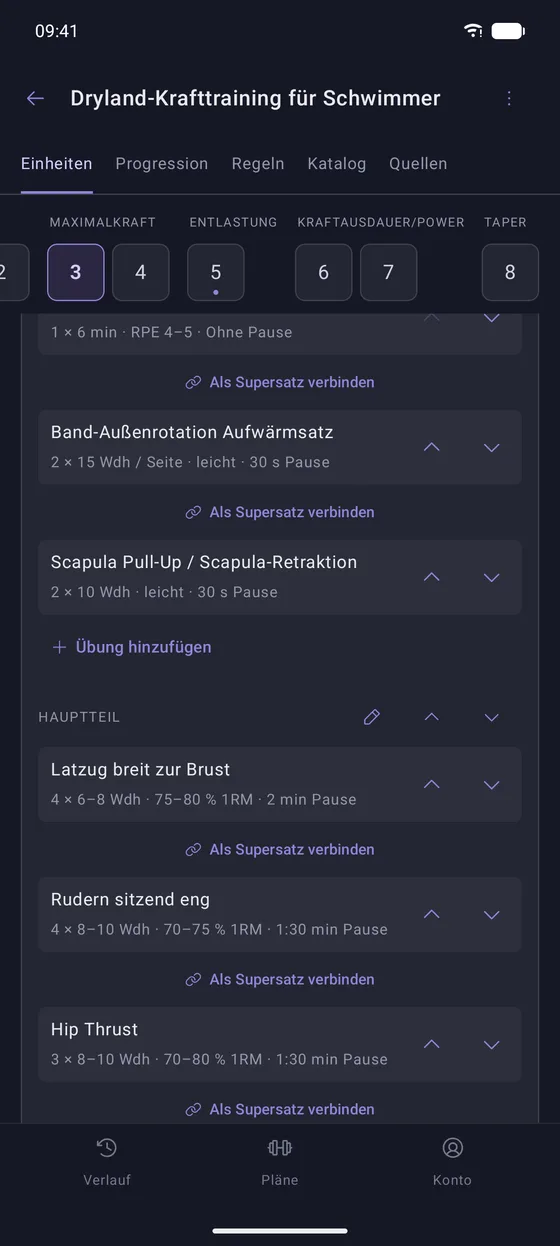
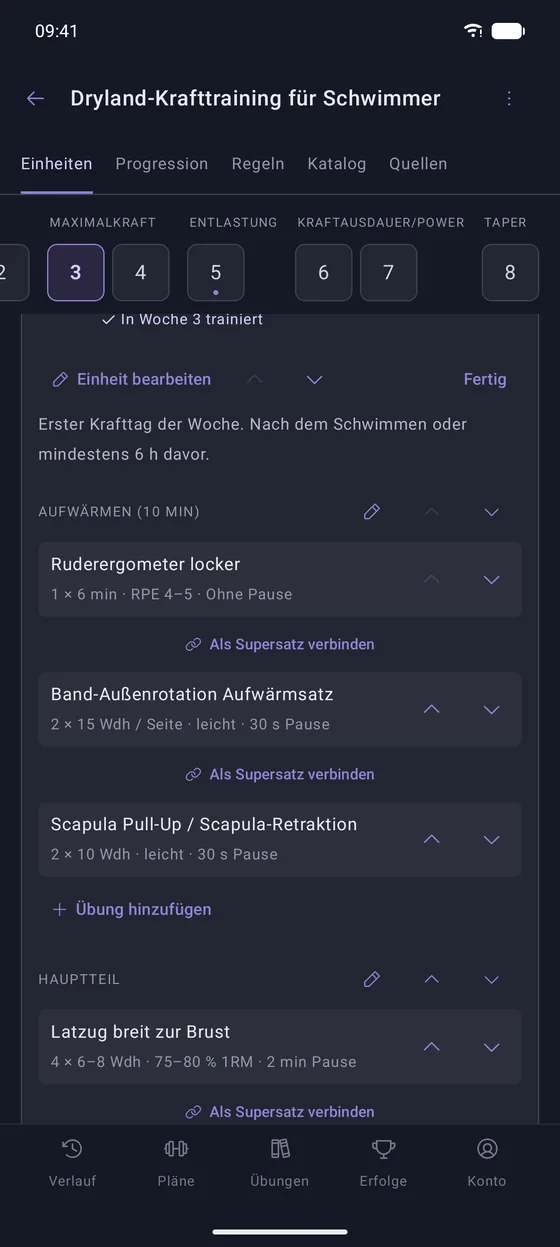
Abschlusskarte, Erfolge und Zeit seit dem letzten Satz; Screenshots mit fünf Reitern (App 43)

diff --git a/anleitungen.html b/anleitungen.html
@@ -19,7 +19,7 @@
 </head>
 <body>
 <h1>Trainingsarten mit Helpanion</h1>
-<p>Stand: 13. Oktober 2026 (App-Version 42) · <a href="#en">English version below</a> · <a href="begriffe.html">Begriffe</a> · <a href="index.html">Zur Produktseite</a></p>
+<p>Stand: 13. Oktober 2026 (App-Version 43) · <a href="#en">English version below</a> · <a href="begriffe.html">Begriffe</a> · <a href="index.html">Zur Produktseite</a></p>
 <p>Diese Anleitungen zeigen, wie du gängige Trainingsarten in Helpanion einrichtest und trainierst. Beschriftungen in <span class="ui">fett</span> stehen so in der App.</p>
 
 <nav class="toc" aria-label="Inhalt">
@@ -38,6 +38,7 @@
   <a href="#cooldown">Cooldown</a>
   <a href="#periodisierung">Wochen, Entlastung, Techniken aussetzen</a>
   <a href="#abweichen">Im Training abweichen</a>
+  <a href="#nachher">Nach dem Training: Abschlusskarte und Erfolge</a>
 </nav>
 
 <h2 id="grundlagen">Grundlagen: wo was eingestellt wird</h2>
@@ -180,11 +181,20 @@
   <li><strong>Übung ergänzen:</strong> <span class="ui">Übung hinzufügen</span>. Solange du dafür noch keinen Satz erfasst hast, kannst du sie über den Stift wieder <span class="ui">Entfernen</span>.</li>
   <li><strong>Reihenfolge:</strong> <span class="ui">Reihenfolge und Supersätze ändern</span>.</li>
 </ul>
+<p class="tip">Nach dem letzten Satz einer Übung läuft keine Pause. Auf der nächsten Übung steht deshalb <span class="ui">Seit dem letzten Satz</span> mit der Zeit und „noch … · empfohlen …“ bis zur Pause der vorigen Übung – nur zur Orientierung.</p>
+
+<h2 id="nachher">Nach dem Training: Abschlusskarte und Erfolge</h2>
+<ul>
+  <li><strong>Abschlusskarte:</strong> Nach <span class="ui">Training beenden</span> erscheint eine Zusammenfassung: Dauer, Sätze, Volumen, neue Bestwerte, neue Auszeichnungen, Wochenstand und die nächste Einheit. <span class="ui">Weiter</span> führt in den Verlauf. Später erneut: Verlauf → Training antippen → <span class="ui">Zusammenfassung</span> (mit dem Stand von damals).</li>
+  <li><strong>Auf der Uhr:</strong> kurze Vibration und eine Kurzfassung, bis du <span class="ui">OK</span> tippst.</li>
+  <li><strong>Erfolge:</strong> Reiter <span class="ui">Erfolge</span> → <span class="ui">Auszeichnungen</span>: erreichte oben, offene mit Fortschritt, versteckte als „???“. Antippen zeigt Bedingung und <span class="ui">Warum das gut ist</span>. Unter <span class="ui">Bestwerte</span> stehen je Übung bestes e1RM und schwerster Satz.</li>
+</ul>
+<p class="tip">Auszeichnungen werden aus deinen Trainings berechnet, auch rückwirkend. Kraft-Auszeichnungen zählen nicht in Entlastungswochen und nicht bei schlechter Bereitschaft (Oura); Tagesserien gibt es bewusst nicht.</p>
 
 <!-- ===================================================================== English -->
 <div class="lang" id="en" lang="en">
 <h1>Training methods with Helpanion</h1>
-<p>As of: October 13, 2026 (app version 40) · <a href="begriffe.html#en">Glossary</a> · <a href="en.html">Product page</a></p>
+<p>As of: October 13, 2026 (app version 43) · <a href="begriffe.html#en">Glossary</a> · <a href="en.html">Product page</a></p>
 <p>These guides show how to set up and train common methods in Helpanion. Labels in <span class="ui">bold</span> appear like this in the app (English interface).</p>
 
 <nav class="toc" aria-label="Contents">
@@ -203,6 +213,7 @@
   <a href="#en-cooldown">Cool-down</a>
   <a href="#en-periodization">Weeks, deloads, pausing techniques</a>
   <a href="#en-deviate">Deviating during a workout</a>
+  <a href="#en-after">After training: summary card and awards</a>
 </nav>
 
 <h2 id="en-basics">Basics: where things are set</h2>
@@ -345,6 +356,15 @@
   <li><strong>Add an exercise:</strong> <span class="ui">Add exercise</span>. As long as you haven’t logged a set for it, you can <span class="ui">Remove</span> it again via the pencil.</li>
   <li><strong>Order:</strong> <span class="ui">Change order and supersets</span>.</li>
 </ul>
+<p class="tip">No rest runs after the last set of an exercise. The next exercise therefore shows <span class="ui">Since the last set</span> with the time and “… left · recommended …” up to the rest of the previous exercise – for orientation only.</p>
+
+<h2 id="en-after">After training: summary card and awards</h2>
+<ul>
+  <li><strong>Summary card:</strong> after <span class="ui">Finish workout</span> a summary appears: duration, sets, volume, new records, new awards, weekly status and your next session. <span class="ui">Continue</span> leads to the history. To see it again: History → tap a workout → <span class="ui">Summary</span> (as it was back then).</li>
+  <li><strong>On the watch:</strong> a short vibration and a brief summary until you tap <span class="ui">OK</span>.</li>
+  <li><strong>Awards:</strong> tab <span class="ui">Awards</span> → <span class="ui">Awards</span>: earned ones on top, open ones with progress, hidden ones as “???”. Tap to see the condition and <span class="ui">Why it matters</span>. <span class="ui">Bests</span> lists the best e1RM and heaviest set per exercise.</li>
+</ul>
+<p class="tip">Awards are computed from your workouts, including past ones. Strength awards do not count in deload weeks or on days with poor readiness (Oura); there are deliberately no daily streaks.</p>
 </div>
 
 <script>

diff --git a/index.html b/index.html
@@ -131,6 +131,7 @@
         <li>Aufwärmsätze mit einem Tipp markieren – sie zählen nicht als Arbeitssatz</li>
         <li>Satz bis zum Versagen markieren, „8+“-Vorgaben für so viele Wiederholungen wie möglich</li>
         <li>Neuer Bestwert? Helpanion sagt es dir direkt beim Loggen</li>
+        <li>Beim Übungswechsel: Zeit seit dem letzten Satz und die empfohlene Pause</li>
         <li>Absturzsicher: jeder Satz ist sofort gespeichert</li>
       </ul>
     </div>
@@ -153,6 +154,7 @@
         <li>Vor dem ersten Satz das Gewicht vom letzten Mal</li>
         <li>Vibration zum Ende der Pause</li>
         <li>Bestwert und Aufwärmsatz auch am Handgelenk sichtbar</li>
+        <li>Nach dem Training: kurze Vibration und eine Zusammenfassung</li>
       </ul>
     </div>
     <div class="media">
@@ -186,6 +188,27 @@
 <section>
   <div class="wrap feature flip">
     <div class="text">
+      <div class="kicker">Nach dem Training</div>
+      <h2>Geschafft – und du siehst, was es gebracht hat.</h2>
+      <p>Nach „Training beenden“ fasst Helpanion zusammen, was du heute geschafft hast. Auszeichnungen machen Fortschritt sichtbar und erklären, warum er zählt – ohne Punkte, ohne Rangliste, ohne Druck.</p>
+      <ul class="points">
+        <li>Abschlusskarte: Dauer, Sätze, Volumen, neue Bestwerte, Wochenstand und die nächste Einheit</li>
+        <li>27 Auszeichnungen in sieben Kategorien, von Beständigkeit bis Selbsteinschätzung – jede mit einem kurzen „Warum das gut ist“</li>
+        <li>Rückwirkend aus deinen bisherigen Trainings berechnet</li>
+        <li>Erholung und Entlastungswochen werden belohnt, Tagesserien und Rekorde bei schlechter Tagesform nicht</li>
+        <li>Bestwerte je Übung auf einen Blick, die Zusammenfassung jedes Trainings jederzeit im Verlauf</li>
+      </ul>
+    </div>
+    <div class="media">
+      <div class="phone"><img src="img/abschluss.webp" alt="Abschlusskarte mit neuen Bestwerten, Auszeichnung und Wochenstand"></div>
+      <div class="phone"><img src="img/erfolge.webp" alt="Reiter Erfolge mit Auszeichnungen in Bronze, Silber und Gold"></div>
+    </div>
+  </div>
+</section>
+
+<section>
+  <div class="wrap feature">
+    <div class="text">
       <div class="kicker">Planen und Fortschritt</div>
       <h2>Weißt du noch, was du letzte Woche gedrückt hast? Helpanion schon.</h2>
       <p>Pläne mit Wochen, Phasen und Progression. Der Verlauf zeigt, wie lange dein letztes Training her ist, wann die empfohlene Pause vorbei ist und was du geschafft hast.</p>
@@ -207,7 +230,7 @@
 </section>
 
 <section>
-  <div class="wrap feature">
+  <div class="wrap feature flip">
     <div class="text">
       <div class="kicker">Plan bearbeiten</div>
       <h2>Dein Plan wächst mit dir.</h2>

diff --git a/en.html b/en.html
@@ -131,6 +131,7 @@
         <li>Mark warm-up sets with one tap – they do not count as work sets</li>
         <li>Mark a set to failure, “8+” targets for as many reps as possible</li>
         <li>New record? Helpanion tells you right when you log the set</li>
+        <li>When switching exercises: time since the last set and the recommended rest</li>
         <li>Crash-safe: every set is saved instantly</li>
       </ul>
     </div>
@@ -153,6 +154,7 @@
         <li>The weight from last time before the first set</li>
         <li>Vibration when your rest ends</li>
         <li>Records and warm-up sets visible on your wrist too</li>
+        <li>After training: a short vibration and a summary</li>
       </ul>
     </div>
     <div class="media">
@@ -186,6 +188,27 @@
 <section>
   <div class="wrap feature flip">
     <div class="text">
+      <div class="kicker">After training</div>
+      <h2>Done – and you can see what it brought.</h2>
+      <p>After “Finish workout”, Helpanion sums up what you achieved today. Awards make progress visible and explain why it matters – no points, no leaderboard, no pressure.</p>
+      <ul class="points">
+        <li>Summary card: duration, sets, volume, new records, weekly status and your next session</li>
+        <li>27 awards in seven categories, from consistency to self-assessment – each with a short “why it matters”</li>
+        <li>Computed from your past workouts, too</li>
+        <li>Recovery and deload weeks are rewarded, daily streaks and records on bad days are not</li>
+        <li>Personal bests per exercise at a glance, every workout’s summary available in the history</li>
+      </ul>
+    </div>
+    <div class="media">
+      <div class="phone"><img src="img/en-abschluss.webp" alt="Summary card with new records, an award and weekly status"></div>
+      <div class="phone"><img src="img/en-erfolge.webp" alt="Awards tab with awards in bronze, silver and gold"></div>
+    </div>
+  </div>
+</section>
+
+<section>
+  <div class="wrap feature">
+    <div class="text">
       <div class="kicker">Planning and progress</div>
       <h2>Remember what you pressed last week? Helpanion does.</h2>
       <p>Plans with weeks, phases and progression. Your history shows how long ago your last training was, when the recommended rest is over and what you achieved.</p>
@@ -207,7 +230,7 @@
 </section>
 
 <section>
-  <div class="wrap feature">
+  <div class="wrap feature flip">
     <div class="text">
       <div class="kicker">Edit your plan</div>
       <h2>Your plan grows with you.</h2>
